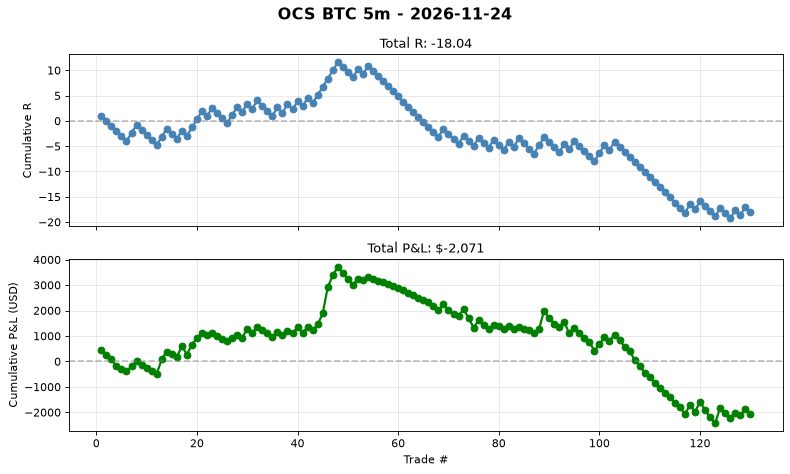
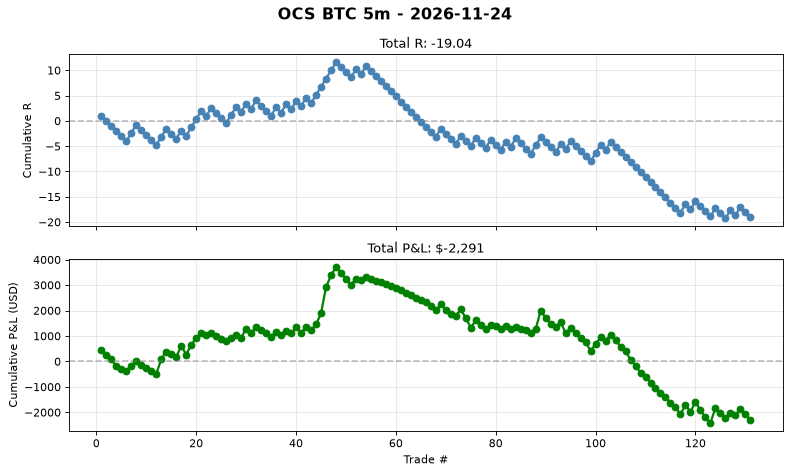
auto(ocs-btc): signal log 2026-11-24T10:55 trades=131

diff --git a/automation/reports/ocs_btc_5m/daily/2026-11-24.md b/automation/reports/ocs_btc_5m/daily/2026-11-24.md
@@ -1,5 +1,37 @@
 # OCS BTC 5m - 2026-11-24
 
-**No trades today.**
+## Summary
+- **Trades**: 1 (0W / 1L)
+- **Win Rate**: 0.0%
+- **Total R**: -1.00R
+- **Total P&L**: $-220
+- **Avg R**: -1.00R
+- **Profit Factor**: 0.78
 
-Cumulative stats: 130 trades | WR 33.1% | avg R -0.139
+## Exit Breakdown
+- T1 (+1.0R): 1
+- T2 (+1.618R): 42
+- T3 (+2.618R): 0
+- T4 (+3.618R): 0
+- T5 (+5.0R): 0
+- SL (-1.0R): 88
+
+## Best Trade
+- **LONG** at 61,462 -> SL 61,242
+- R = -1.00, P&L = $-220
+- Held for 8 bars
+
+## Worst Trade
+- **LONG** at 61,462 -> SL 61,242
+- R = -1.00, P&L = $-220
+- Held for 8 bars
+
+## Cumulative Stats (Lifetime)
+- Total trades: 131
+- WR: 32.8%
+- Avg R: -0.145
+- Total R: -19.04R
+- Profit Factor: 0.78
+
+## Chart
+See `daily/2026-11-24.png` for cumulative P&L curve.
